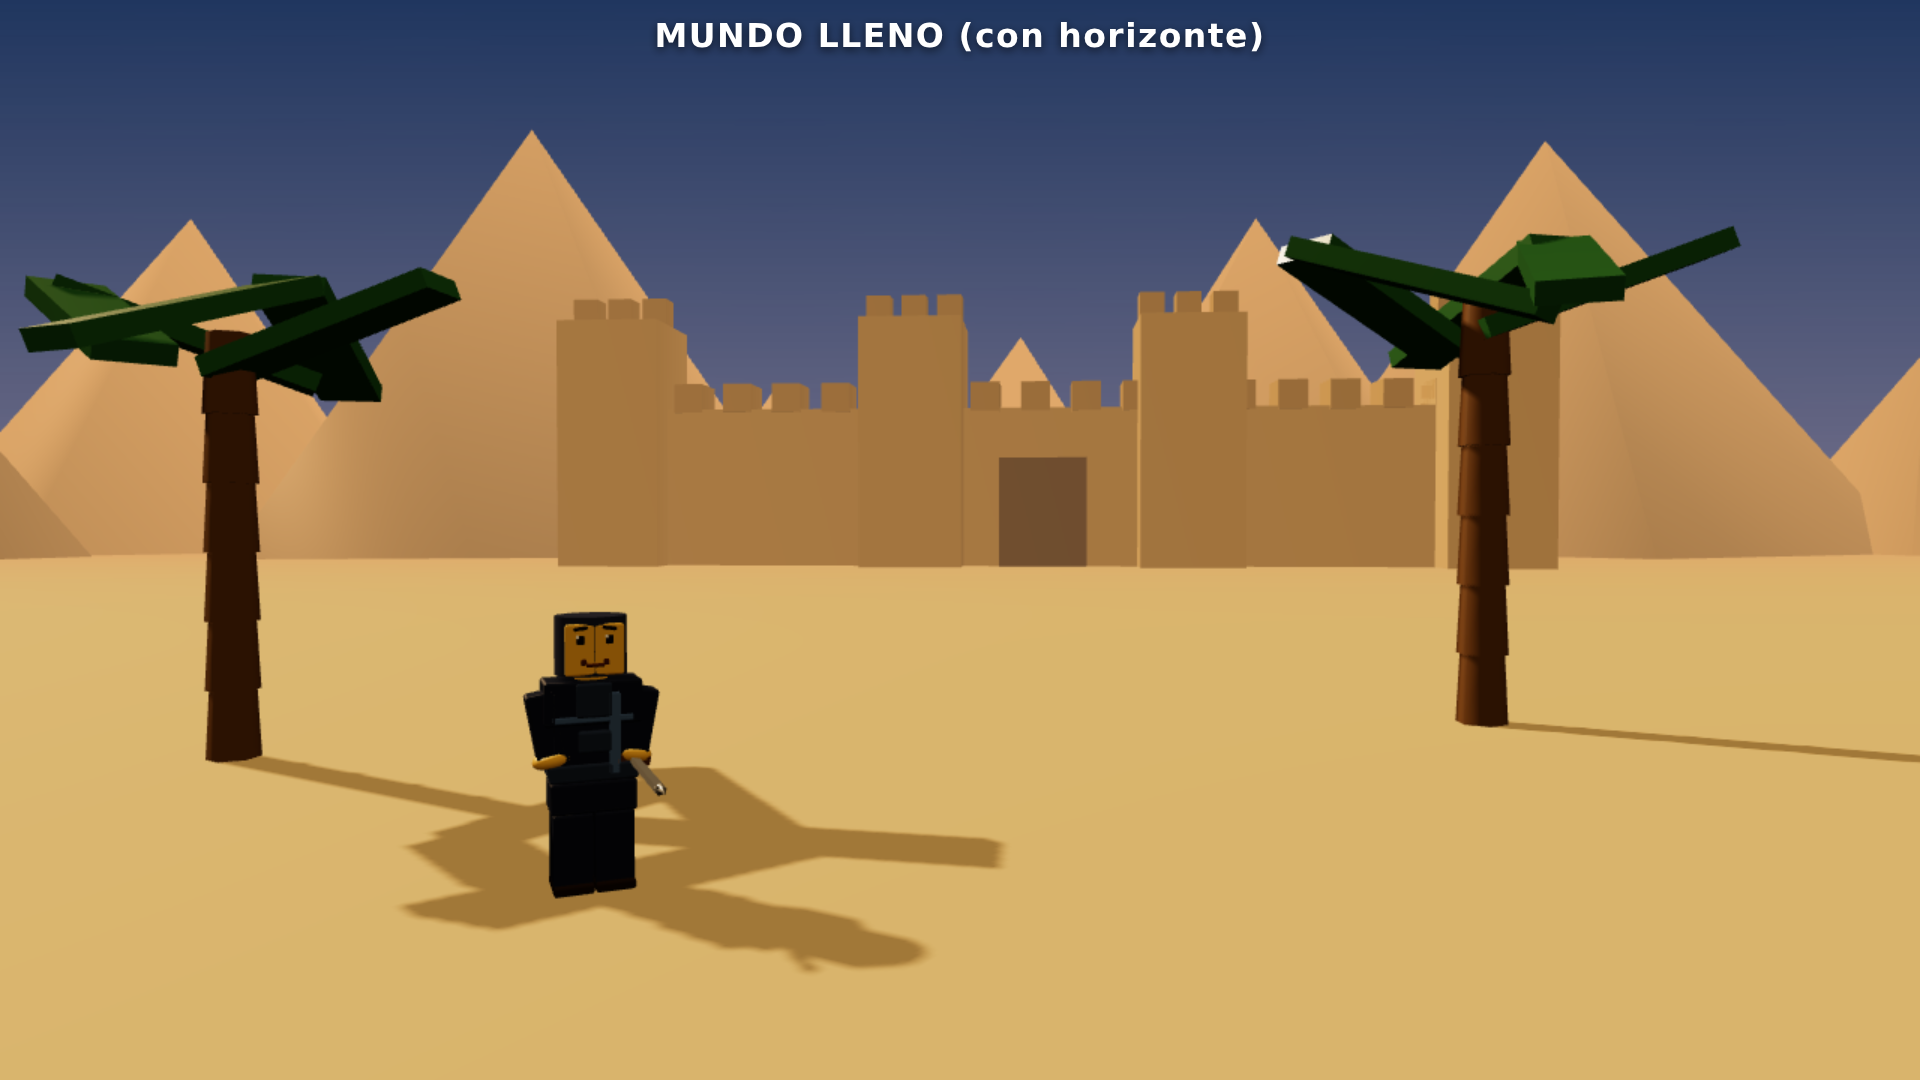
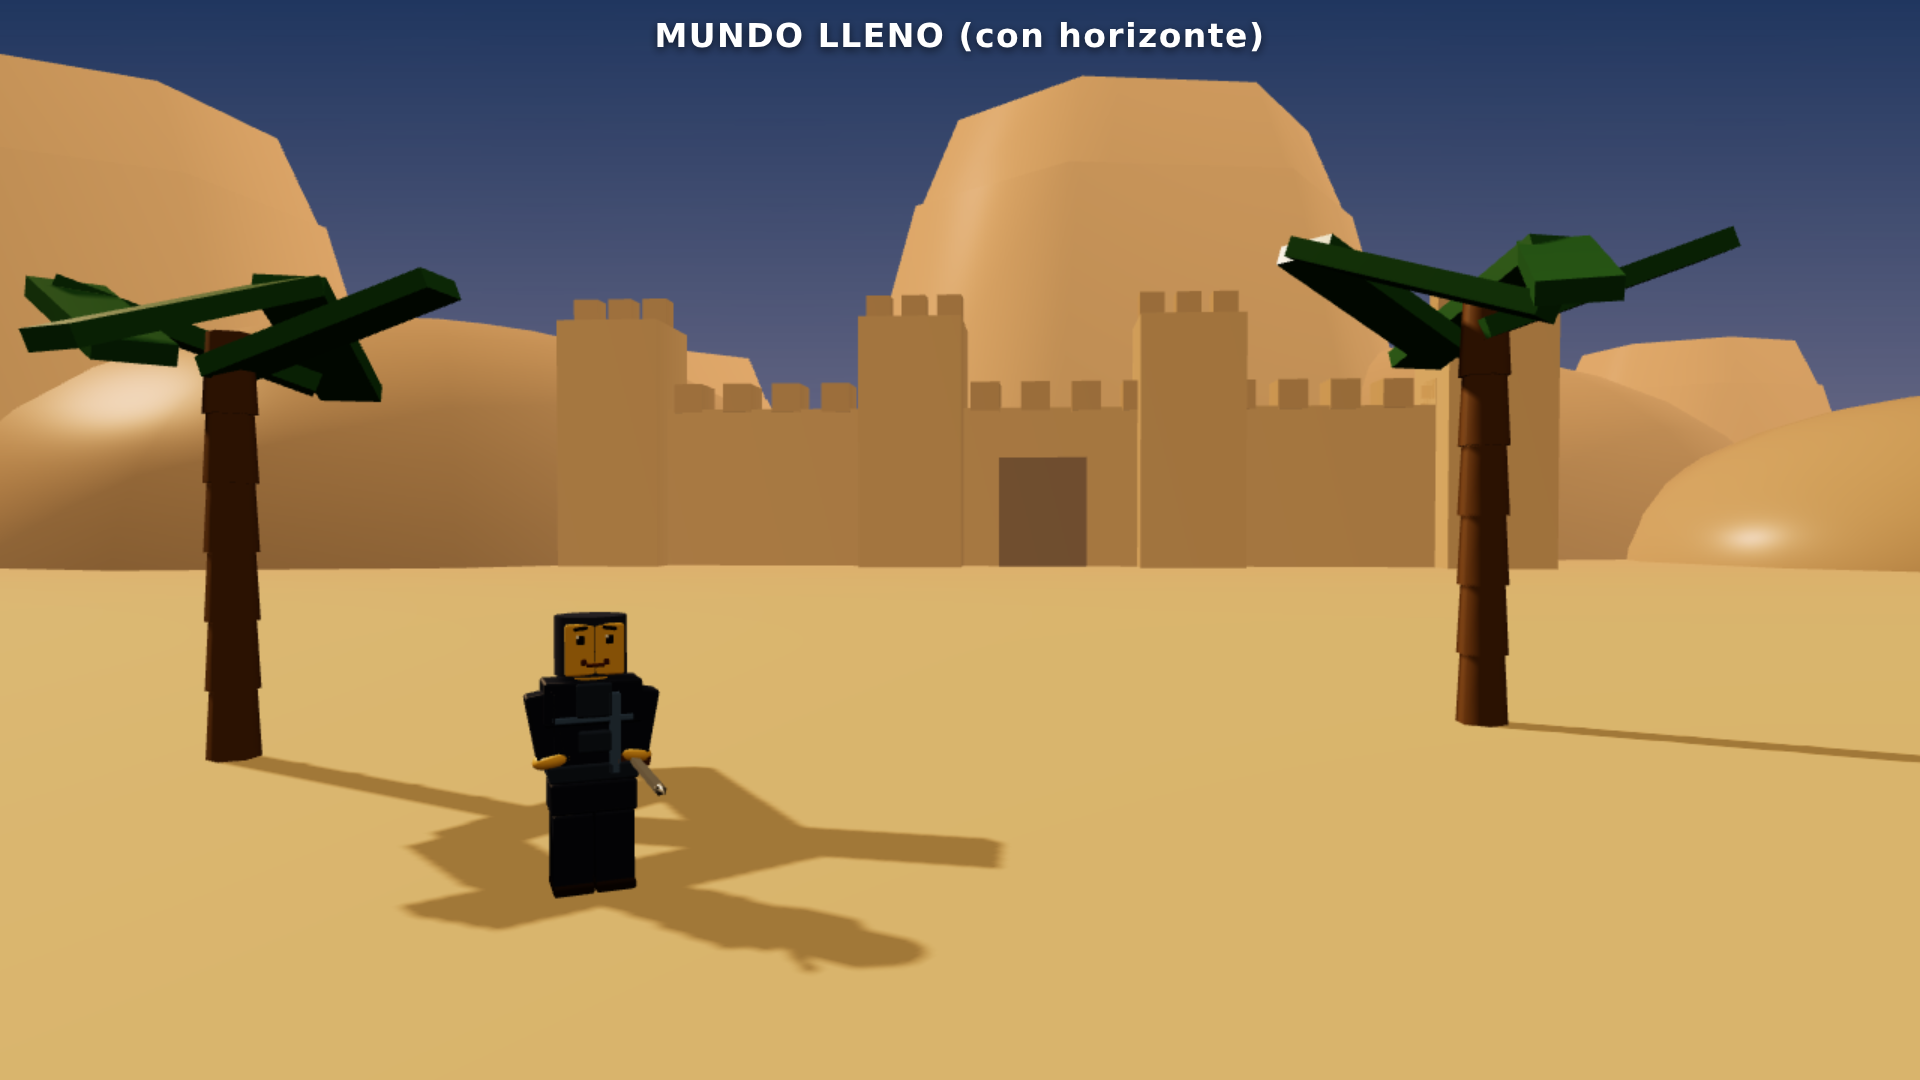
Mockup horizonte: cerros de arenisca (mesetas/colinas) fieles a la peli, no piramides
Claude-Session: https://claude.ai/code/session_01Fgry2hnwitkQ2wKLYbkPgZ

diff --git a/mundo-ladrillos/src/backdrop.ts b/mundo-ladrillos/src/backdrop.ts
@@ -79,15 +79,25 @@ for (const [x, z, r, ci] of dunePos) {
   d.scale.set(1, 0.32, 1); world.add(d);
 }
 
-// Montañas lejanas: conos chunky de baja poli en arco al fondo
-const mtnColors = [0x9c8b6e, 0x8a7c66, 0xab9a7d, 0x7d715c];
-for (let i = 0; i < 11; i++) {
-  const ang = -Math.PI * 0.92 + (i / 10) * Math.PI * 0.84;
-  const rad = 200 + (i % 3) * 26;
-  const h = 46 + (i % 4) * 16;
+// Cerros lejanos: MESETAS de cima plana + colinas redondeadas (arenisca),
+// como el desierto de la peli (NO pirámides egipcias).
+const mtnColors = [0xc9b183, 0xbaa274, 0xd0ba8c, 0xa9906a];
+for (let i = 0; i < 12; i++) {
+  const ang = -Math.PI * 0.94 + (i / 11) * Math.PI * 0.88;
+  const rad = 190 + (i % 3) * 30;
+  const h = 40 + (i % 4) * 18;
   const x = Math.cos(ang) * rad, z = -Math.abs(Math.sin(ang)) * rad - 40;
-  const m = mesh(new THREE.ConeGeometry(h * 0.72, h, 5), mtnColors[i % 4], x, h / 2 - 6, z);
-  m.rotation.y = i * 0.7; world.add(m);
+  const col = mtnColors[i % 4];
+  if (i % 2 === 0) {
+    // meseta (butte): cilindro ancho de cima plana, ligeramente troncocónico
+    const m = mesh(new THREE.CylinderGeometry(h * 0.62, h * 0.9, h, 7), col, x, h / 2 - 6, z);
+    m.rotation.y = i; world.add(m);
+    m.add(mesh(new THREE.CylinderGeometry(h * 0.5, h * 0.62, h * 0.28, 7), col, 0, h * 0.6, 0)); // escalón superior
+  } else {
+    // colina redondeada (media esfera achatada)
+    const m = mesh(new THREE.SphereGeometry(h * 0.85, 12, 8, 0, Math.PI * 2, 0, Math.PI / 2), col, x, -4, z);
+    m.scale.set(1, 0.6, 1); world.add(m);
+  }
 }
 
 // ---------- FORTALEZA DE JERICÓ al fondo (silueta de muralla + torres) ----------
